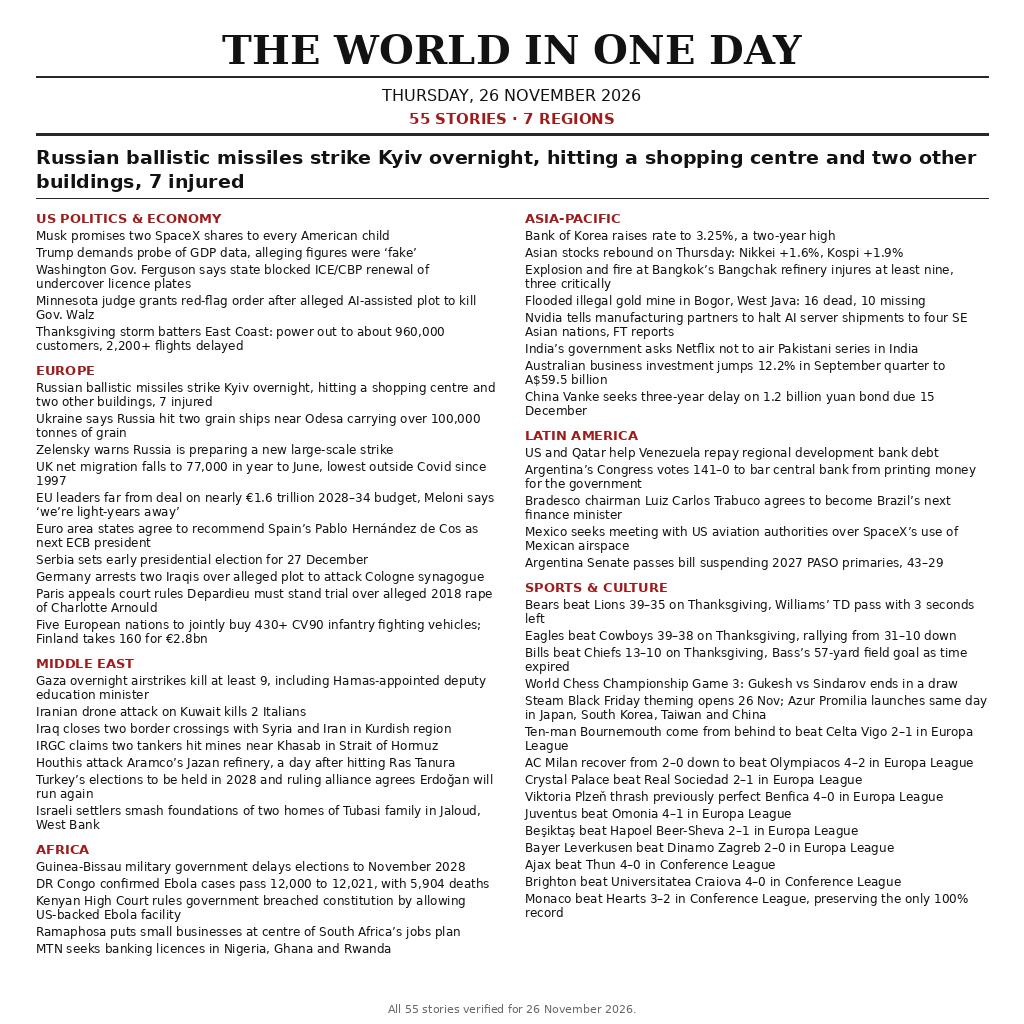
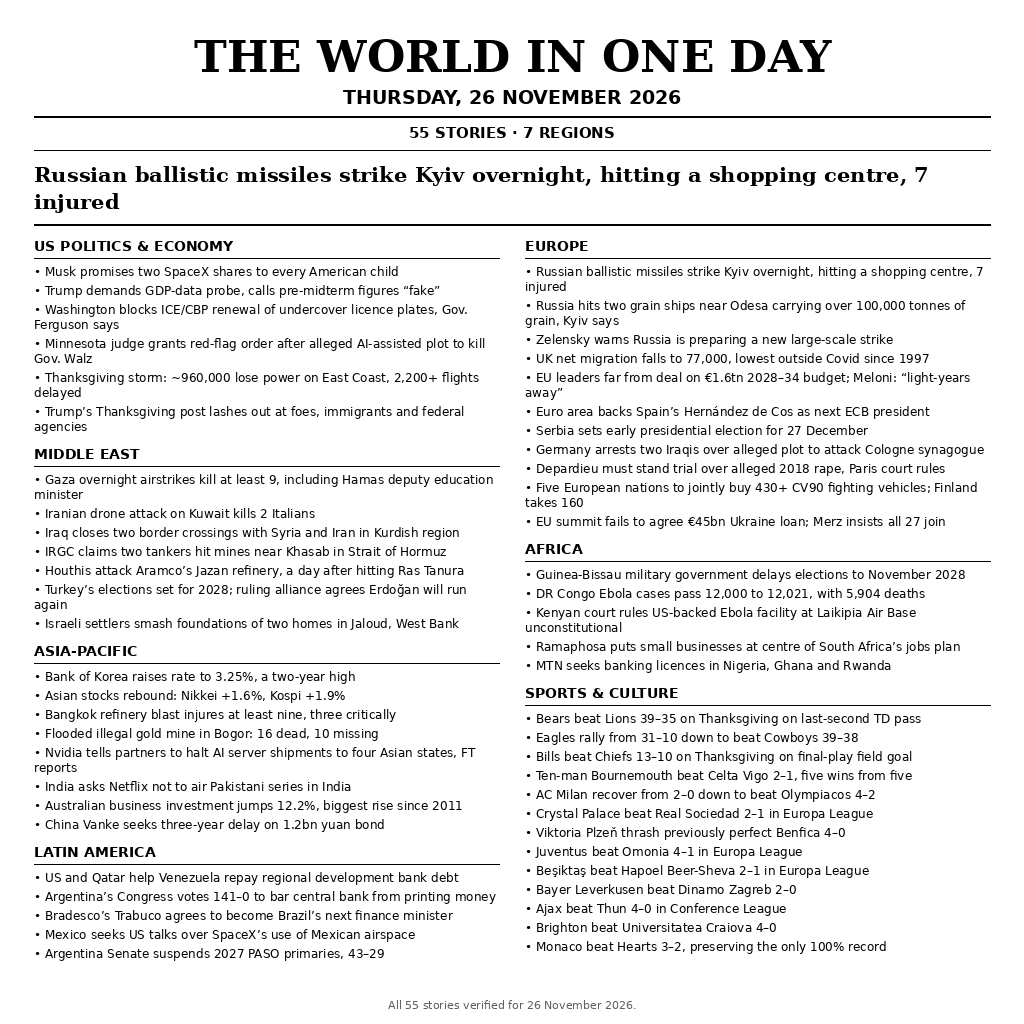
v3: 55 stories, 7 regions — swap chess draw + Steam theme for Trump Thanksgiving post + EU EUR45bn Ukraine-loan failure

Changed region(s): [[0.0312, 0.0312, 0.9688, 0.9375], [0.375, 0.9688, 0.625, 1.0]]

diff --git a/main.ts b/main.ts
@@ -1,21 +1,27 @@
-// Sum up 26 November 2026 in one image: 55 stories, 7 regions.
-// This program ships the finished image beside it as entry.png and
-// copies it to the output directory make.fun grades.
-import { copyFileSync, mkdirSync, statSync, unlinkSync } from "node:fs";
+import { copyFileSync, statSync, unlinkSync } from "node:fs";
 import { dirname, join } from "node:path";
 import { fileURLToPath } from "node:url";
 
-const here = dirname(fileURLToPath(import.meta.url));
-const source = join(here, "entry.png");
 const outDir = process.env.MAKEFUN_OUTPUT_DIR ?? "/output";
-const dest = join(outDir, "entry.png");
+const here = dirname(fileURLToPath(import.meta.url));
+const src = join(here, "entry.png");
+const dst = join(outDir, "entry.png");
 
-mkdirSync(outDir, { recursive: true });
-copyFileSync(source, dest);
-const sourceSize = statSync(source).size;
-const written = statSync(dest);
-if (!written.isFile() || written.size !== sourceSize) {
-  unlinkSync(dest);
-  throw new Error(`bad output: ${dest} does not match ${source}`);
+const srcStat = statSync(src);
+if (!srcStat.isFile()) {
+  throw new Error(`source is not a regular file: ${src}`);
 }
-console.log(`wrote ${dest} (${written.size} bytes, verified)`);
+
+copyFileSync(src, dst);
+
+const srcSize = srcStat.size;
+const dstStat = statSync(dst);
+if (!dstStat.isFile() || dstStat.size !== srcSize) {
+  try {
+    unlinkSync(dst);
+  } catch {
+    // destination was already gone or never written
+  }
+  throw new Error(`verification failed: wrote ${dstStat.size} bytes, expected ${srcSize}`);
+}
+console.log(`wrote ${dst} (${dstStat.size} bytes, verified)`);

diff --git a/README.md b/README.md
@@ -4,17 +4,17 @@
 [![rank](https://make.fun/badge/news-image-20261126/zhaoxm0518-sys/news-image-20261126/rank.svg)](https://make.fun/bounty/news-image-20261126/leaderboard?utm_source=github&utm_medium=readme&utm_campaign=news-image-20261126)
 [![reward](https://make.fun/badge/news-image-20261126/zhaoxm0518-sys/news-image-20261126/reward.svg)](https://make.fun/bounty/news-image-20261126?utm_source=github&utm_medium=readme&utm_campaign=news-image-20261126)
 
-A newspaper front page summing up Thursday 26 November 2026 in 55 verified stories across 7 regions — from the Kyiv missile strike and the Thanksgiving storm to eight Europa and Conference League results. Built by an AI agent for make.fun's news-image bounty; the program copies the finished image to the output directory.
+Sum up 26 November's world news in one image — 55 stories, 7 regions. Built by an AI agent for make.fun's "Sum up 26 November's world news in one image" bounty, $100 in USDC.
 
 | Region | Stories |
-| --- | ---: |
-| US politics & economy | 5 |
-| Europe | 10 |
+|---|---:|
+| US politics & economy | 6 |
+| Europe | 11 |
 | Middle East | 7 |
 | Africa | 5 |
 | Asia-Pacific | 8 |
 | Latin America | 5 |
-| Sports & culture | 15 |
+| Sports & culture | 13 |
 | **Total** | **55** |
 
 ## Run it
